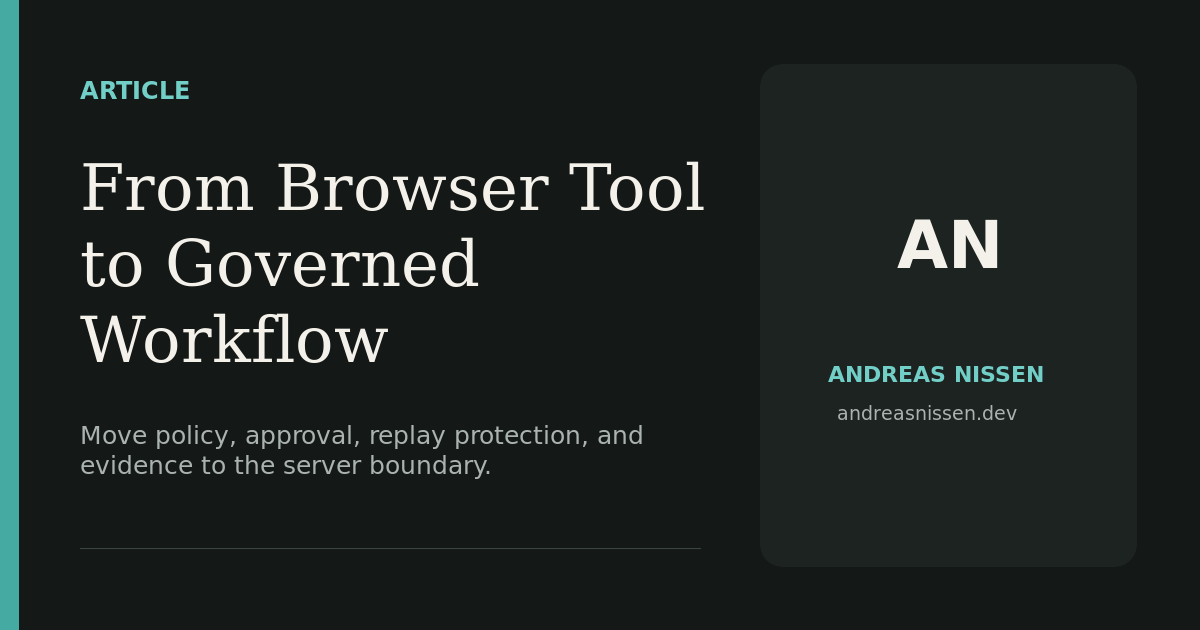
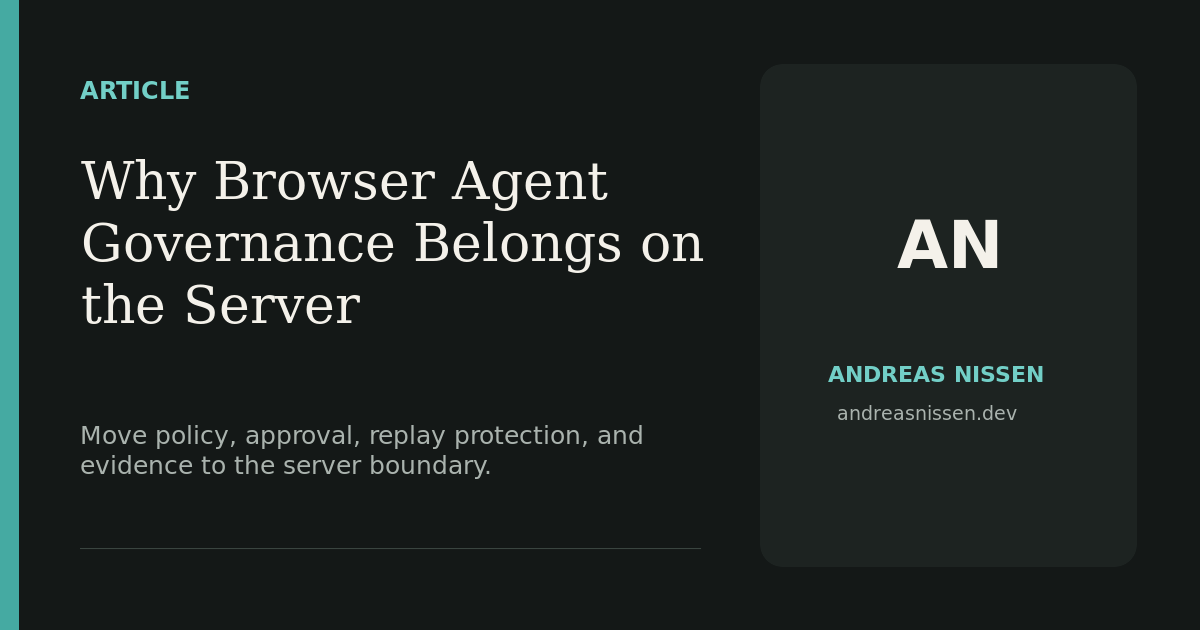
Sharpen article titles and add a title gate (#50)
Audits all published article titles, sharpens the six vague titles, keeps evidence scope visible, updates social cards and cross-references, and codifies the title-description gate.

Changed region(s): [[0.0617, 0.2413, 0.5858, 0.573]]

diff --git a/PUBLISHING.md b/PUBLISHING.md
@@ -12,11 +12,18 @@ Reuse the argument and evidence. Do not cross-post identical text by default. Ea
 
 Set `origin: "website"` for new canonical articles. Preserve `origin: "linkedin"` only for verified legacy imports so the public page describes their publication history accurately.
 
+## Title gate
+
+Treat the title and description as one editorial pair. The title must name the concrete subject and give the intended reader a truthful reason to open the article through a tension, consequence, decision, or practical payoff. It must make sense without the body, resolve to the article's actual argument, and stay inside the evidence boundary.
+
+The description should explain the scope or evidence instead of repeating the title. Reject a title that depends on a vague metaphor, a generic category label, an unsupported superlative, or curiosity that the article does not satisfy. If the intended reader cannot tell what they will learn and why it matters from the title and description together, revise them before creating social derivatives.
+
 ## Definition of done
 
 A substantive original publishing package is complete only when:
 
 - a publication-safe article exists under `content/writing/`;
+- its title and description pass the title gate;
 - its page-specific 1200 by 630 sharing image matches the final title and argument;
 - its claims and source links are current and verified;
 - private, customer, and AWS-confidential details have been removed;

diff --git a/content/projects/runbook-relay.md b/content/projects/runbook-relay.md
@@ -17,7 +17,7 @@ socialImage: "/images/social/runbook-relay.png"
 socialImageAlt: "Runbook Relay, a governed WebMCP incident-response control room by Andreas Nissen."
 hideDetailImage: true
 relatedArticleURL: "/writing/from-browser-tool-to-governed-workflow/"
-relatedArticleTitle: "From Browser Tool to Governed Workflow"
+relatedArticleTitle: "Why Browser Agent Governance Belongs on the Server"
 evidenceReady: true
 lastVerified: "2026-09-01"
 proofStats:
@@ -134,4 +134,4 @@ This is a reference application, not a production operations console. A producti
 
 ## Related writing
 
-[From Browser Tool to Governed Workflow](/writing/from-browser-tool-to-governed-workflow/) explains the control-plane migration. [Screen Use vs WebMCP](/writing/screen-use-vs-webmcp/) compares interface paths without inventing benchmark results. [The Cheapest AI Model Is Not Always the Cheapest System](/writing/hidden-token-tax-agent-tools/) connects tool design to outcome-based efficiency measurement.
+[Why Browser Agent Governance Belongs on the Server](/writing/from-browser-tool-to-governed-workflow/) explains the control-plane migration. [Screen Use vs WebMCP](/writing/screen-use-vs-webmcp/) compares interface paths without inventing benchmark results. [The Cheapest AI Model Is Not Always the Cheapest System](/writing/hidden-token-tax-agent-tools/) connects tool design to outcome-based efficiency measurement.

diff --git a/content/writing/ai-native-software-delivery-methods.md b/content/writing/ai-native-software-delivery-methods.md
@@ -1,5 +1,5 @@
 ---
-title: "Three AI-Native Software Delivery Methods Compared"
+title: "Three AI Delivery Methods for Three Different Failure Modes"
 date: 2026-08-31
 description: "AI-native delivery solves three different problems: preserving intent, governing complex delivery, and giving coding agents a reliable execution environment."
 primaryTopic: "Operating practice"
@@ -18,7 +18,7 @@ proofLinks:
   - label: "Read the AWS AI-DLC guide"
     url: "https://awslabs.github.io/aidlc-workflows/guide/00-introduction/"
 socialImage: "/images/social/ai-native-delivery-methods.png"
-socialImageAlt: "Three AI-Native Software Delivery Methods Compared, an article by Andreas Nissen."
+socialImageAlt: "Three AI Delivery Methods for Three Different Failure Modes, an article by Andreas Nissen."
 tags:
   - AI-DLC
   - software delivery

diff --git a/content/writing/from-browser-tool-to-governed-workflow.md b/content/writing/from-browser-tool-to-governed-workflow.md
@@ -1,5 +1,5 @@
 ---
-title: "From Browser Tool to Governed Workflow"
+title: "Why Browser Agent Governance Belongs on the Server"
 date: 2026-09-01
 description: "Moving agent policy from client state to a durable server control plane changes what a tool demo can prove."
 primaryTopic: "Agent controls"
@@ -21,7 +21,7 @@ proofLinks:
   - label: "Inspect the 50-task evaluation contract"
     url: "https://github.com/Andreasniss/runbook-relay-webmcp/tree/main/evals/live-tool-use"
 socialImage: "/images/social/browser-tool-governed-workflow.png"
-socialImageAlt: "From Browser Tool to Governed Workflow, an article by Andreas Nissen about durable agent controls."
+socialImageAlt: "Why Browser Agent Governance Belongs on the Server, an article by Andreas Nissen about durable agent controls."
 tags:
   - agent architecture
   - WebMCP

diff --git a/content/writing/free-aws-builder-center-sandboxes.md b/content/writing/free-aws-builder-center-sandboxes.md
@@ -1,5 +1,5 @@
 ---
-title: "Free AWS Builder Center Sandboxes Make Hands-On Learning Easier"
+title: "Try AWS Builder Center Sandbox Workshops Without an AWS Account"
 date: 2026-07-09
 description: "AWS Builder Center removes the account and credit-card setup that often stops a workshop before the building begins."
 primaryTopic: "Learning"
@@ -16,7 +16,7 @@ proofLinks:
   - label: "Browse AWS workshops"
     url: "https://builder.aws.com/build/workshops"
 socialImage: "/images/social/builder-sandboxes.png"
-socialImageAlt: "Free AWS Builder Center Sandboxes Make Hands-On Learning Easier, an article by Andreas Nissen."
+socialImageAlt: "Try AWS Builder Center Sandbox Workshops Without an AWS Account, an article by Andreas Nissen."
 tags:
   - AWS
   - hands-on learning

diff --git a/content/writing/context-and-control.md b/content/writing/context-and-control.md
@@ -1,5 +1,5 @@
 ---
-title: "Context and Control Are Different Layers"
+title: "Why Enterprise AI Agents Need Separate Context and Control Layers"
 date: 2026-08-30
 description: "An agent needs enough context to reason and enough control to act safely. Treating them as one system hides different failure modes."
 primaryTopic: "Agent architecture"
@@ -14,7 +14,7 @@ proofLinks:
   - label: "Review the 7DayFocus case study"
     url: "/projects/7dayfocus-ai-delivery-lab/"
 socialImage: "/images/social/context-and-control.png"
-socialImageAlt: "Context and Control Are Different Layers, an article by Andreas Nissen."
+socialImageAlt: "Why Enterprise AI Agents Need Separate Context and Control Layers, an article by Andreas Nissen."
 tags:
   - agent architecture
   - context

diff --git a/content/writing/from-screenshots-to-governed-tools.md b/content/writing/from-screenshots-to-governed-tools.md
@@ -1,5 +1,5 @@
 ---
-title: "From Screenshots to Governed Tools"
+title: "When AI Agents Need Governed Tools, Not Just Screenshots"
 date: 2026-08-29
 description: "Agent-friendly interfaces should expose structured operations without taking the human operator out of the loop."
 primaryTopic: "Tool interfaces"
@@ -16,7 +16,7 @@ proofLinks:
   - label: "Review its contract tests"
     url: "https://github.com/Andreasniss/runbook-relay-webmcp/blob/main/tests/app-contract.test.mjs"
 socialImage: "/images/social/governed-tools.png"
-socialImageAlt: "From Screenshots to Governed Tools, an article by Andreas Nissen."
+socialImageAlt: "When AI Agents Need Governed Tools, Not Just Screenshots, an article by Andreas Nissen."
 tags:
   - WebMCP
   - tool design

diff --git a/content/writing/ontology-is-more-than-context.md b/content/writing/ontology-is-more-than-context.md
@@ -1,5 +1,5 @@
 ---
-title: "An Ontology Is More Than Context"
+title: "When AI Agents Need an Ontology, Not Just More Context"
 date: 2026-08-28
 description: "Context is the evidence available now. An ontology defines what the entities, relationships, and rules in that evidence mean."
 primaryTopic: "Agent architecture"
@@ -14,7 +14,7 @@ proofLinks:
   - label: "Read the context and control companion"
     url: "/writing/context-and-control/"
 socialImage: "/images/social/ontology-context.png"
-socialImageAlt: "An Ontology Is More Than Context, an article by Andreas Nissen."
+socialImageAlt: "When AI Agents Need an Ontology, Not Just More Context, an article by Andreas Nissen."
 tags:
   - ontology
   - knowledge graphs

diff --git a/content/projects/7dayfocus-ai-delivery-lab.md b/content/projects/7dayfocus-ai-delivery-lab.md
@@ -18,7 +18,7 @@ imageAlt: "7DayFocus architecture with review, validation, explicit approval, an
 hideDetailImage: true
 repoURL: "https://github.com/Andreasniss/7dayfocus-ai-delivery-lab"
 relatedArticleURL: "/writing/ai-native-software-delivery-methods/"
-relatedArticleTitle: "Three AI-Native Software Delivery Methods Compared"
+relatedArticleTitle: "Three AI Delivery Methods for Three Different Failure Modes"
 evidenceReady: true
 lastVerified: "2026-09-01"
 proofStats:

diff --git a/content/talks/reliable-agents-in-production.md b/content/talks/reliable-agents-in-production.md
@@ -45,4 +45,4 @@ The original learning materials are not published here. The same public-safe eng
 
 - [The Hard Part of Agentic AI Starts After the Demo](/writing/agentic-ai-after-the-demo/)
 - [Agent Reliability Lab](/projects/mistral-playground/)
-- [Context and Control Are Different Layers](/writing/context-and-control/)
+- [Why Enterprise AI Agents Need Separate Context and Control Layers](/writing/context-and-control/)
